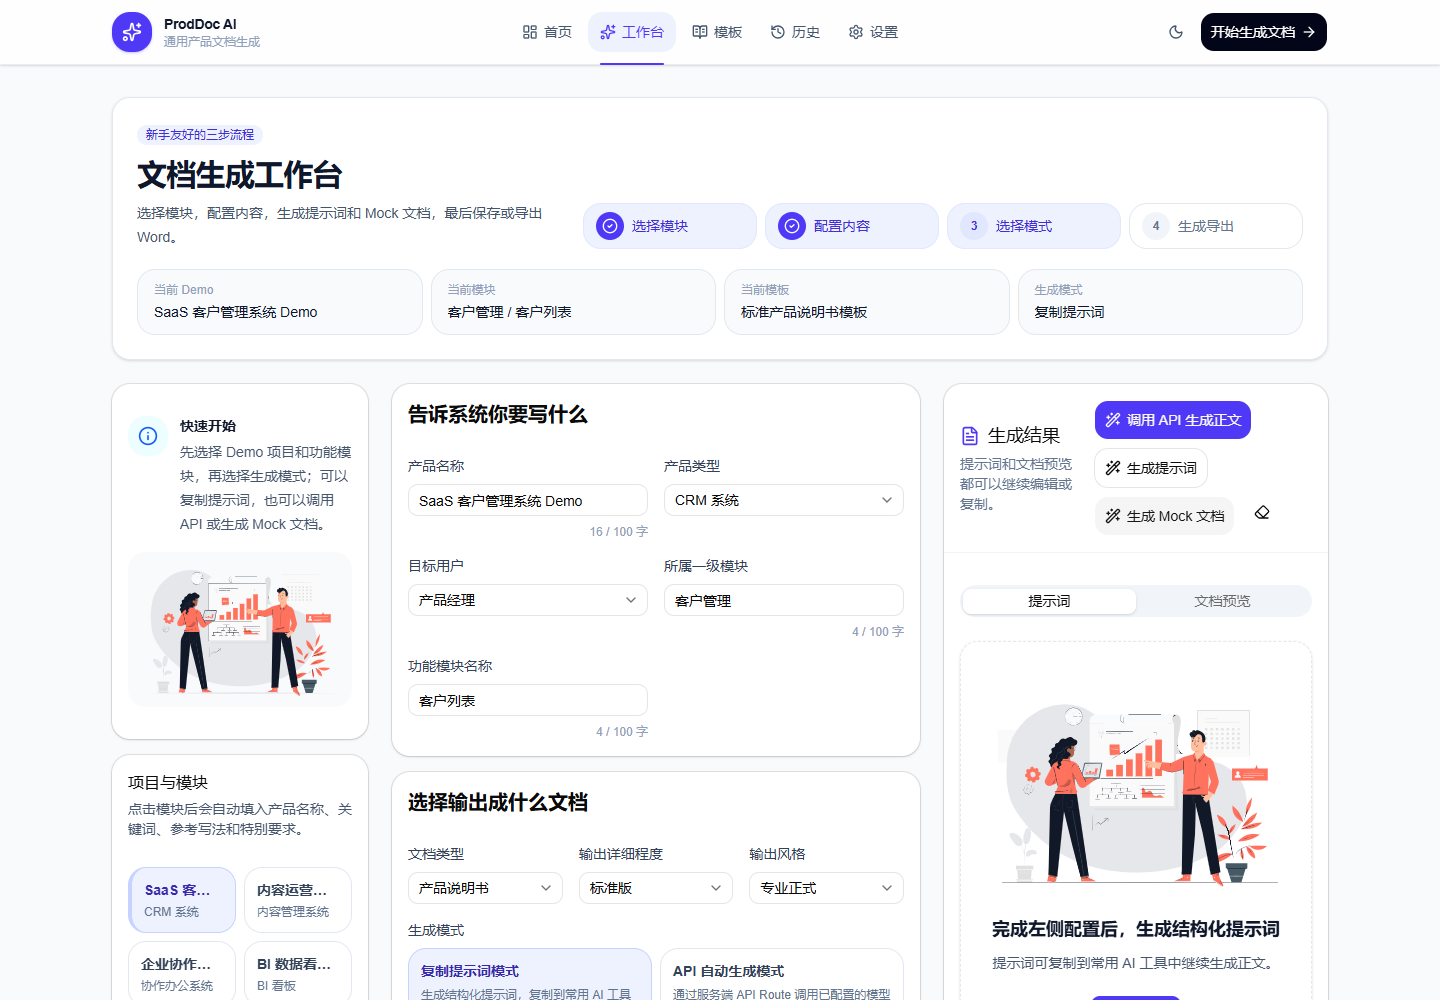
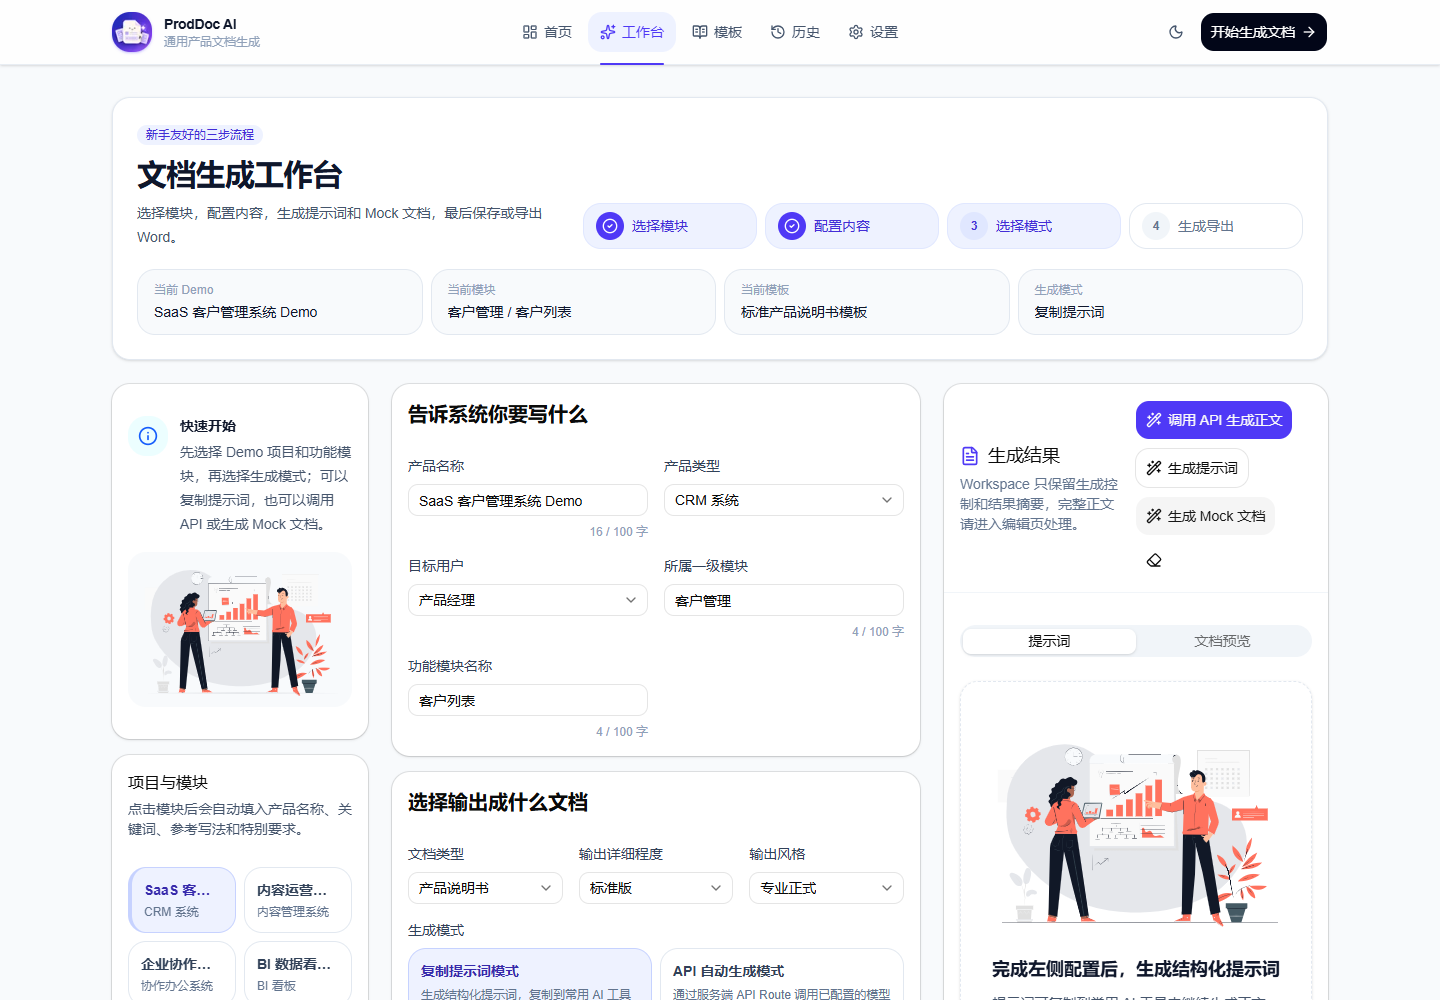
docs: refresh ProdDoc AI screenshots and README

diff --git a/README.md b/README.md
@@ -1,74 +1,85 @@
 # ProdDoc AI
 
-通用型软件产品说明书与操作文档生成工作台。
-
-**技术栈**：Next.js / TypeScript / Tailwind CSS / shadcn/ui / localStorage / docx / Playwright
-
-**核心能力**：提示词生成 / API 自动生成 / Mock 文档生成 / Word 导出 / 历史记录 / 模板工作流 / 环境配置检查 / 页面截图验收 / Smoke Test
+通用型软件产品说明书与操作文档生成工作台。它面向产品经理、产品运营、售前顾问、实施交付人员和培训人员，把产品类型、功能模块、参考资料、截图和模板规则整理成可编辑、可保存、可导出的文档生成流程。
 
 ![Dashboard](public/screenshots/dashboard.png)
 
-ProdDoc AI 是一个通用软件产品说明书与操作文档生成工作台，用于把产品类型、功能模块、截图、关键词、参考写法和输出模板整理成可复用的文档生成流程。
+## 当前状态
 
-项目支持“提示词辅助 + API 自动生成”双模式：未配置模型服务时可继续生成提示词和 Mock 文档；配置模型服务后，可通过服务端 API Route 自动生成正文，并继续编辑、保存和导出 Word。
+- 运行形态：本地优先的 Next.js 16 工作台，可作为作品集演示或轻量内部原型使用。
+- 生成模式：提示词辅助、API 自动生成、Mock 文档三种模式。
+- 模型接入：通过服务端 API Route 调用 OpenAI-compatible Chat Completions，密钥只读取服务端环境变量。
+- 数据保存：草稿、历史记录、启用模板、自定义模板和默认偏好均保存在浏览器 localStorage。
+- 截图状态：`npm run screenshots` 可重新启动项目并生成 Dashboard、Workspace、Templates、History、Settings 五张作品集截图。
+
+## 核心能力
+
+- Dashboard：展示产品定位、模板入口、适用角色、Demo 项目和最近生成记录。
+- Workspace：选择 Demo 项目和模块，填写产品信息、参考写法、截图和参考资料，生成提示词或正文。
+- 三种生成模式：复制提示词模式、API 自动生成模式、Mock 文档模式，未配置模型服务时仍可离线演示。
+- 文档预览与编辑：生成后先显示摘要卡片，可复制全文、保存历史、导出 Word，或进入 `/editor` 做全文编辑与局部改写。
+- Templates：内置系统模板，也支持从旧说明书、文档或截图中解析标题层级、段落写法、字段规则和语气规范，保存为自定义模板。
+- 参考资料解析：支持 TXT、Markdown、Word、PDF 和图片；Word 使用 `mammoth` 提取文本，PDF 使用 `pdfjs-dist` 提取文本，图片使用 `tesseract.js` 做 OCR。
+- History：本地保存文档结果，支持搜索、筛选、复制、删除和进入编辑器。
+- Settings：检查 API 环境变量、测试模型连接、复制 `.env.local` 模板并保存默认生成偏好。
+- 工程验证：提供 Playwright smoke test 与截图脚本，用于检查主要页面可访问且非空白。
+
+## 技术栈
+
+- Next.js 16.2.4 / React 19 / TypeScript
+- Tailwind CSS v4 / shadcn/ui / Radix UI / lucide-react
+- docx / mammoth / pdfjs-dist / tesseract.js / file-saver
+- localStorage 本地持久化
+- Playwright 截图与端到端 smoke test
+- OpenAI-compatible Chat Completions API
 
 ## 项目截图
 
 ### Dashboard 首页
 
-Dashboard 用于展示产品定位、核心能力、典型使用流程、适用角色、适用产品类型和最近生成记录。
+Dashboard 用于展示产品定位、核心能力、模板入口、Demo 项目和最近生成记录。
 
 ![Dashboard](public/screenshots/dashboard.png)
 
 ### Workspace 工作台
 
-Workspace 是核心文档生成工作台，支持 Demo 模块选择、示例内容填充、提示词生成、API 自动生成、Mock 文档生成、正文编辑、历史保存和 Word 导出。
+Workspace 是核心文档生成工作台，支持 Demo 模块选择、内容配置、参考资料解析、提示词生成、API 自动生成、Mock 文档生成、历史保存和 Word 导出。
 
 ![Workspace](public/screenshots/workspace.png)
 
 ### Templates 模板页
 
-Templates 用于选择不同文档生成模板，启用后会影响 Workspace 的默认文档类型、输出风格和提示词方向。
+Templates 用于选择系统模板，也可以从旧说明书、文档或截图中解析并保存自定义模板。
 
 ![Templates](public/screenshots/templates.png)
 
 ### History 历史记录页
 
-History 用于管理本地生成记录，支持查看、搜索、筛选、复制和删除。
+History 用于管理本地生成记录，支持查看、搜索、筛选、复制、删除和继续编辑。
 
 ![History](public/screenshots/history.png)
 
 ### Settings 设置页
 
-Settings 用于检查本地 API 环境配置、测试模型服务连接、复制 `.env.local` 模板，并管理默认生成偏好。
+Settings 用于检查本地 API 环境配置、测试模型连接、复制 `.env.local` 模板，并保存默认生成偏好。
 
 ![Settings](public/screenshots/settings.png)
 
-## 项目定位
-
-ProdDoc AI 面向产品经理、产品运营、售前顾问、实施交付人员和培训人员，帮助他们基于通用软件产品的模块信息、关键词、参考写法和模板结构，快速形成可编辑、可保存、可导出的产品文档初稿。
-
-项目不依赖登录和数据库，文档草稿、历史记录和默认生成偏好使用浏览器 localStorage 保存，适合作为前端作品集、交互原型和轻量演示工具。
-
-## 核心功能
-
-- Dashboard 首页：展示产品定位、核心能力、典型使用流程、适用角色、适用产品类型和最近生成记录。
-- Workspace 工作台：选择 Demo 项目和功能模块，填写文档输入信息，选择提示词辅助、API 自动生成或 Mock 文档生成模式。
-- API 自动生成：通过 `/api/generate` 服务端接口读取环境变量并调用 OpenAI-compatible Chat Completions 服务，API Key 不会暴露到前端。
-- Settings 设置页：通过 `/api/env-status` 检查环境配置，通过 `/api/test-ai` 测试 API 连接，并保存默认生成偏好。
-- 模板启用：模板页可启用输出模板，并影响工作台的默认文档类型、输出风格和提示词方向。
-- 文档预览：支持正文编辑、复制、保存历史和 Word 导出。
-- 截图辅助：支持多图上传、缩略图预览和删除。
-- 历史记录：使用 localStorage 保存文档结果，支持查看、复制、删除、搜索和文档类型筛选。
-- Smoke Test：使用 Playwright 验证核心页面可访问、非空白且主要标题存在。
-
 ## 页面结构
 
-- `/`：Dashboard 首页
-- `/workspace`：文档生成工作台
-- `/templates`：模板页
-- `/history`：历史记录页
-- `/settings`：设置页
+```text
+/
+/workspace
+/templates
+/history
+/settings
+/editor
+/api/generate
+/api/rewrite
+/api/templates/extract
+/api/env-status
+/api/test-ai
+```
 
 ## 默认 Demo 项目
 
@@ -77,7 +88,7 @@ ProdDoc AI 面向产品经理、产品运营、售前顾问、实施交付人员
 - 企业协作平台 Demo
 - BI 数据看板 Demo
 
-这些 Demo 均用于通用软件产品文档生成场景，不绑定具体客户、具体行业平台或历史项目。
+这些 Demo 用于通用软件产品文档生成场景，不绑定具体客户、具体行业平台或历史项目。
 
 ## 本地运行
 
@@ -88,9 +99,9 @@ npm run dev
 
 访问 `http://localhost:3000`。
 
-## 设置与 API 环境配置
+当前 Windows 环境下项目使用 `scripts/dev-server.mjs` 启动 Next custom server，并显式选择 Webpack，以规避当前机器上 Turbopack / SWC native binding 和 fork 权限相关问题。
 
-进入顶部导航的“设置”或访问 `/settings`，可以检查本地 API 环境配置、测试 API 连接，并复制 `.env.local` 模板。
+## API 环境配置
 
 在项目根目录创建 `.env.local`：
 
@@ -100,51 +111,14 @@ AI_BASE_URL=https://your-provider-compatible-endpoint
 AI_MODEL=your-model-name
 ```
 
-安全说明：
+说明：
 
 - `.env.local` 已通过 `.gitignore` 忽略，不应提交到仓库。
 - `AI_API_KEY` 只在服务端 API Route 中读取。
 - 前端只请求本项目的服务端接口，不会接触或展示真实密钥。
 - 修改 `.env.local` 后需要重启 `npm run dev`，再进入 Settings 检查配置状态。
 
-三种生成方式：
-
-- 提示词辅助模式：生成结构化提示词，用户复制到常用 AI 工具中继续生成正文。
-- API 自动生成模式：服务端使用完整提示词调用模型服务，返回正文后自动填入文档预览区。
-- Mock 文档模式：不依赖任何 API，用于离线演示、作品集截图和快速生成初稿。
-
-Settings 中的默认生成偏好保存在 localStorage。进入 Workspace 时，如果没有已有草稿，会使用这些默认偏好；如果已有草稿，则以草稿优先。
-
-未配置 API 时，提示词模式和 Mock 文档模式仍然可用。
-
-## 工程兼容说明
-
-当前 Windows 环境下 Next 16 的 Turbopack / SWC native binding 存在兼容问题，并且官方 `next dev` CLI 的内部 fork 在当前环境会触发 `spawn EPERM`。
-
-因此项目采用以下工程兼容处理：
-
-- dev：使用 `node scripts/dev-server.mjs` 启动 Next custom server，并显式选择 Webpack。
-- build：使用 `next build --webpack`。
-- Next 配置中将构建 worker 收敛到 1，并使用 worker threads，避免当前环境的子进程权限问题。
-- Playwright 截图脚本优先使用 bundled Chromium，缺失时回退到本机 Chrome 或 Edge。
-
-以上处理只影响工程启动方式，不影响业务功能。
-
-## 推荐演示流程
-
-1. 打开首页，查看产品定位和适用场景。
-2. 进入 Settings，检查 API 环境配置并复制 `.env.local` 模板。
-3. 进入 Workspace。
-4. 从左侧选择一个 Demo 项目和功能模块。
-5. 查看自动填充的示例内容。
-6. 选择“复制提示词模式”或“API 自动生成模式”。
-7. 点击生成提示词、调用 API 生成正文，或使用 Mock 文档生成离线初稿。
-8. 编辑文档内容。
-9. 保存到历史记录。
-10. 导出 Word。
-11. 进入 History 查看、搜索、筛选、复制或删除记录。
-
-## 作品集截图生成
+## 截图生成
 
 ```bash
 npm run screenshots
@@ -158,18 +132,7 @@ npm run screenshots
 - `public/screenshots/history.png`
 - `public/screenshots/settings.png`
 
-## 视觉检查说明
-
-生成截图后建议检查：
-
-- 页面没有明显空白或加载中状态。
-- 页面没有异常横向滚动。
-- 主要内容没有被遮挡。
-- 卡通人物插画在 Dashboard、Workspace、History 中清晰可见。
-- 字体、卡片、按钮层级清晰。
-- Workspace 截图能体现文档生成工作台。
-- Dashboard 截图能体现作品集展示感。
-- 截图中不出现具体客户、具体行业平台或历史项目内容。
+截图脚本会在本机 Chrome/Edge 可用时自动回退到系统浏览器。生成后应检查中文是否正常、页面非空白、主要内容没有被遮挡。
 
 ## 测试与检查命令
 
@@ -177,24 +140,16 @@ npm run screenshots
 npm run lint
 npx tsc --noEmit
 npm run build
-npm run dev
 npm run screenshots
 npm run test:e2e
 ```
 
-如需查看浏览器运行过程：
-
-```bash
-npm run test:e2e:headed
-```
-
 ## 后续规划
 
-- 支持流式输出，减少 API 自动生成等待感。
-- 增加模型选择和温度参数配置。
-- 增加 OCR，将截图中的页面信息转为可编辑参考内容。
-- 增加视觉模型分析截图，辅助生成页面说明和字段说明。
-- 增加更细的文档结构预设和导出格式配置。
+- 增强长文档分章节生成与章节状态管理。
+- 增加更多导出格式和模板结构配置。
+- 优化自定义模板解析结果的人工校正体验。
+- 增加更细的模型参数配置和错误诊断。
 
 ## Illustration Credits
 
